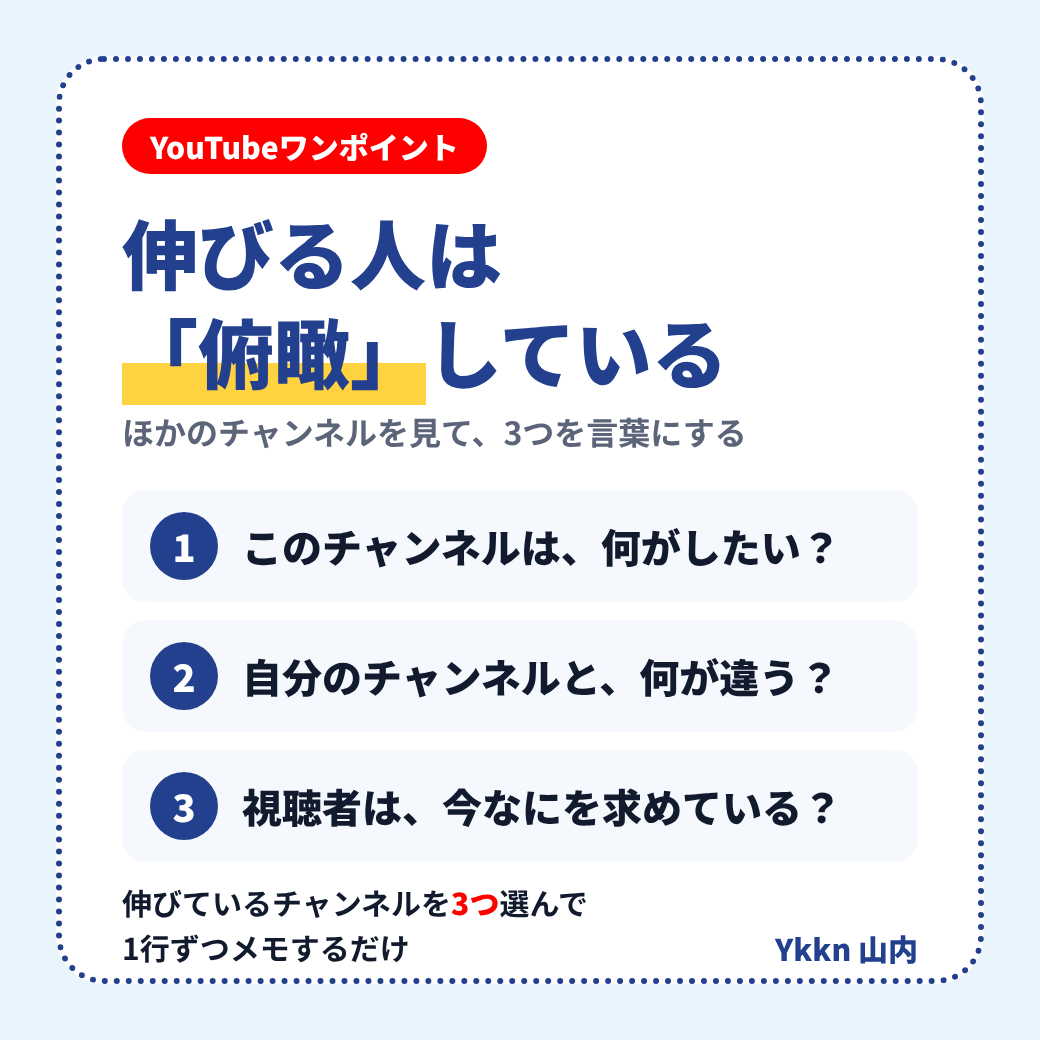
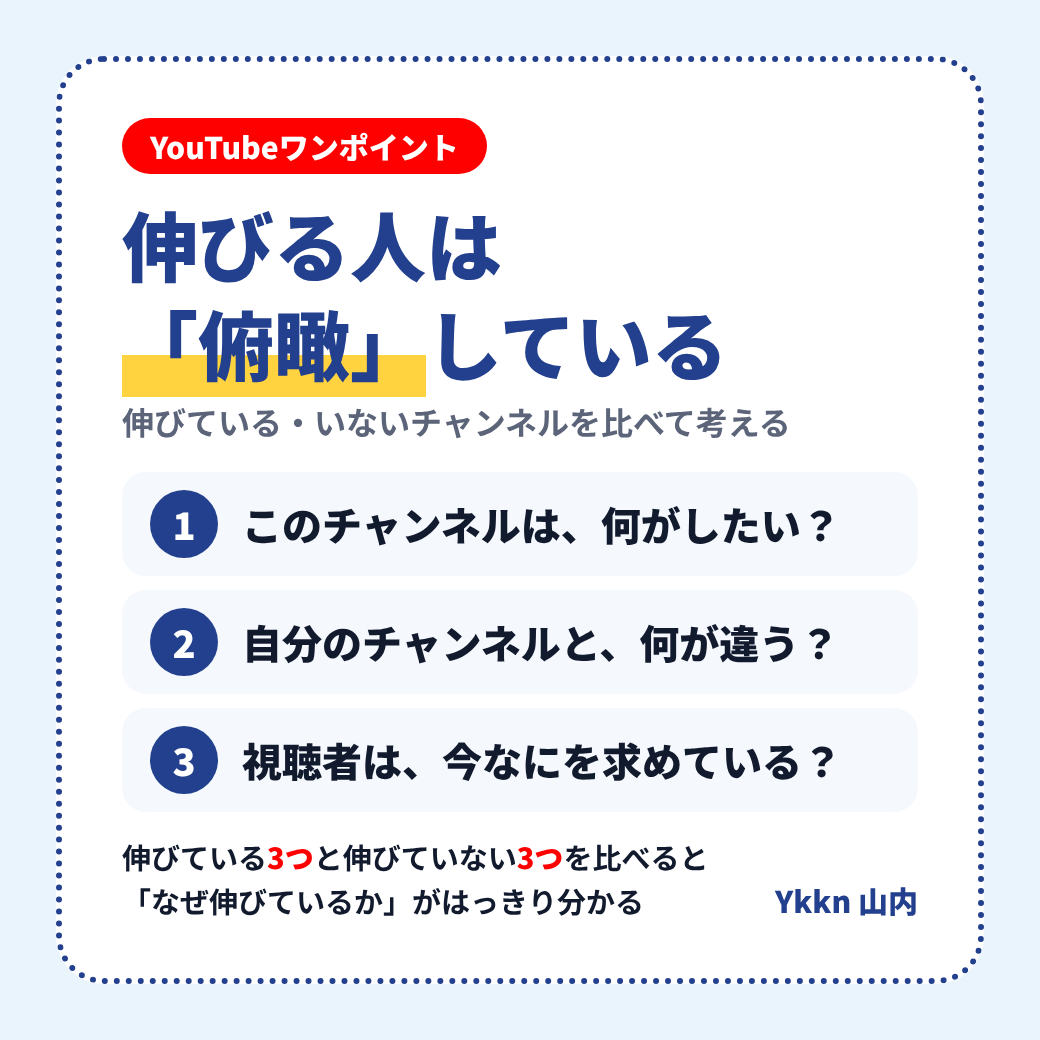
LINE配信02：伸びていないチャンネルとの比較を追加
Claude-Session: https://claude.ai/code/session_013VCsDr4dsXas8bddMVCS79

diff --git a/.company/crm/配信/02_役立つ情報_俯瞰する目.md b/.company/crm/配信/02_役立つ情報_俯瞰する目.md
@@ -18,8 +18,14 @@
 を、はっきり言葉にできたときです。
 
 やり方はシンプル。
-同じジャンルで伸びているチャンネルを3つ選んで、
-上の3つを1行ずつメモするだけ。
+同じジャンルで
+・伸びているチャンネルを3つ
+・伸びていないチャンネルを3つ
+選んで、上の3つを1行ずつメモするだけ。
+
+ポイントは「伸びていないチャンネル」も見ること。
+比べることで、伸びているチャンネルが
+"なぜ伸びているのか"がはっきり分かります。
 
 相手の狙いが見えて、
 自分がやるべきことが見えて、
